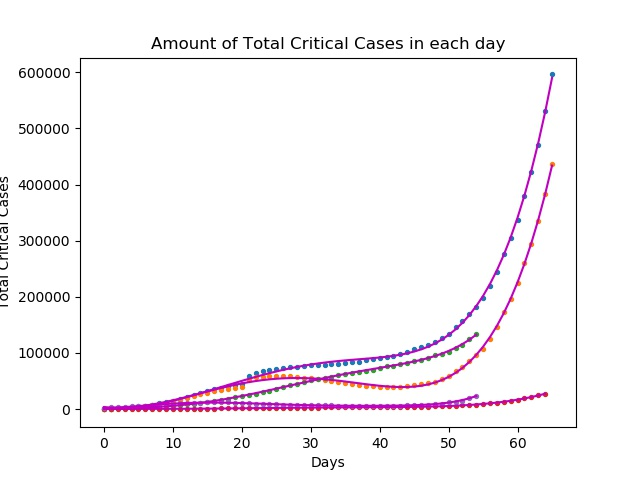
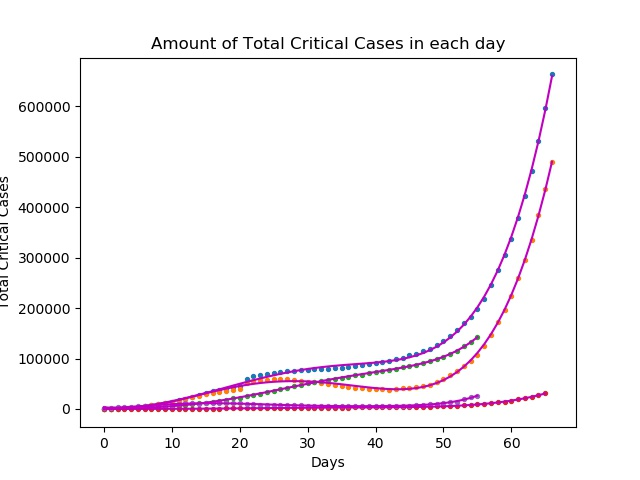
UPDATE 29/03/2020

diff --git a/README.md b/README.md
@@ -12,17 +12,17 @@ COVID-19, the disease that can result from the coronavirus worldwide new pandemi
 
 
 
-Our predictions for 27/03/2020 : 
+Our predictions for 29/03/2020 : 
 
-The predictions for Total Cases today is: 657402  
+The predictions for Total Cases today is: 734521  
 
-The predictions for Total Active Cases today is: 490167
+The predictions for Total Active Cases today is: 552194
 
-The predictions for Total Cured Cases today is: 142905
+The predictions for Total Cured Cases today is: 154244
 
-The predictions for Total Deaths  today is: 30679
+The predictions for Total Deaths  today is: 34630
 
-The predictions for Total Critical Cases  today is: 28023
+The predictions for Total Critical Cases  today is: 31647
 
 
 
@@ -33,7 +33,8 @@ The predictions for Total Critical Cases  today is: 28023
 
 |    Date    | Predicted Total Cases | Real Total Cases | Predicted Total Recovered | Real Total Recovered | Predicted  Total Deaths | Real Total Deaths | Predicted Active Cases | Real Total Cases | Predicted  Critical Cases | Real Critical Cases |
 | :--------: | :-------------------: | :--------------: | :-----------------------: | :------------------: | :---------------------: | :---------------: | :--------------------: | :--------------: | :-----------------------: | :-----------------: |
-| 28/03/2020 |        657402         |        ??        |          142905           |          ??          |          30679          |        ??         |         490167         |        ??        |           28023           |         ??          |
+| 29/03/2020 |        734521         |        ??        |          154244           |          ??          |          34630          |        ??         |         552194         |        ??        |           31647           |         ??          |
+| 28/03/2020 |        657402         |      663124      |          142905           |        141953        |          30679          |       30862       |         490167         |      490309      |           28023           |        25207        |
 | 27/03/2020 |        585682         |      596366      |          131516           |        133059        |          27113          |       27344       |         431739         |      435963      |           22463           |        23522        |
 | 26/03/2020 |        521552         |      531865      |          121254           |        123942        |          23992          |       24073       |         379021         |      383850      |           17778           |        19357        |
 | 25/03/2020 |        466883         |      471035      |          114684           |        114228        |          21202          |       21284       |         333371         |      335523      |           15664           |        14792        |
@@ -42,4 +43,5 @@ The predictions for Total Critical Cases  today is: 28023
 
 ## How to use
 
-1. Run `python main.py`
+1. Run `python install REQUIREMENTS.txt`
+2. Run `python main.py`
